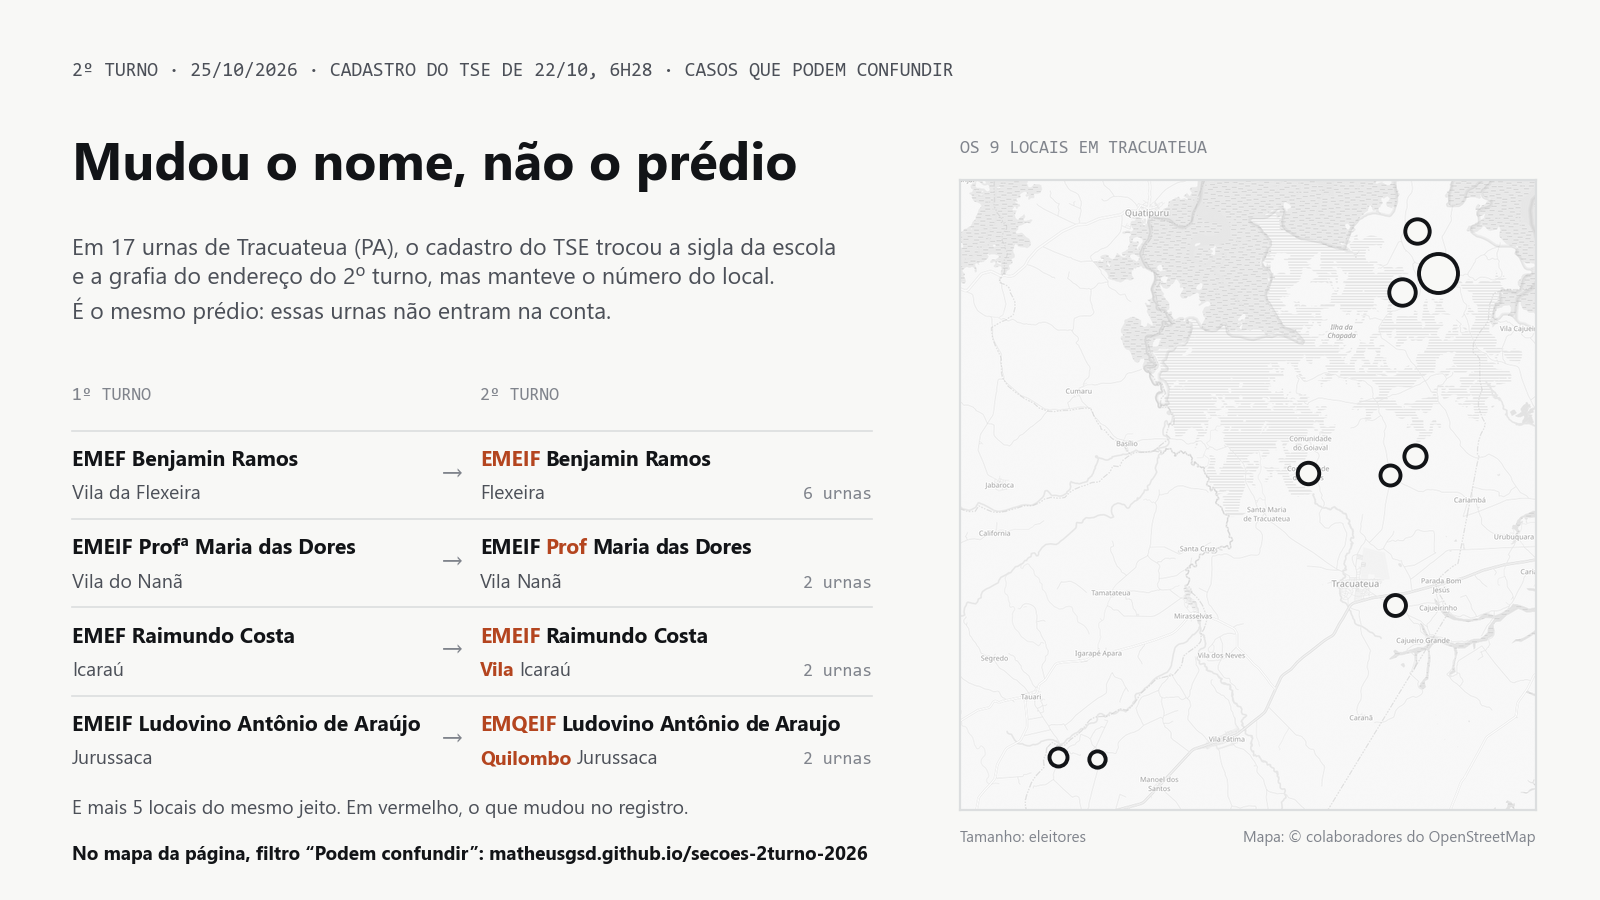
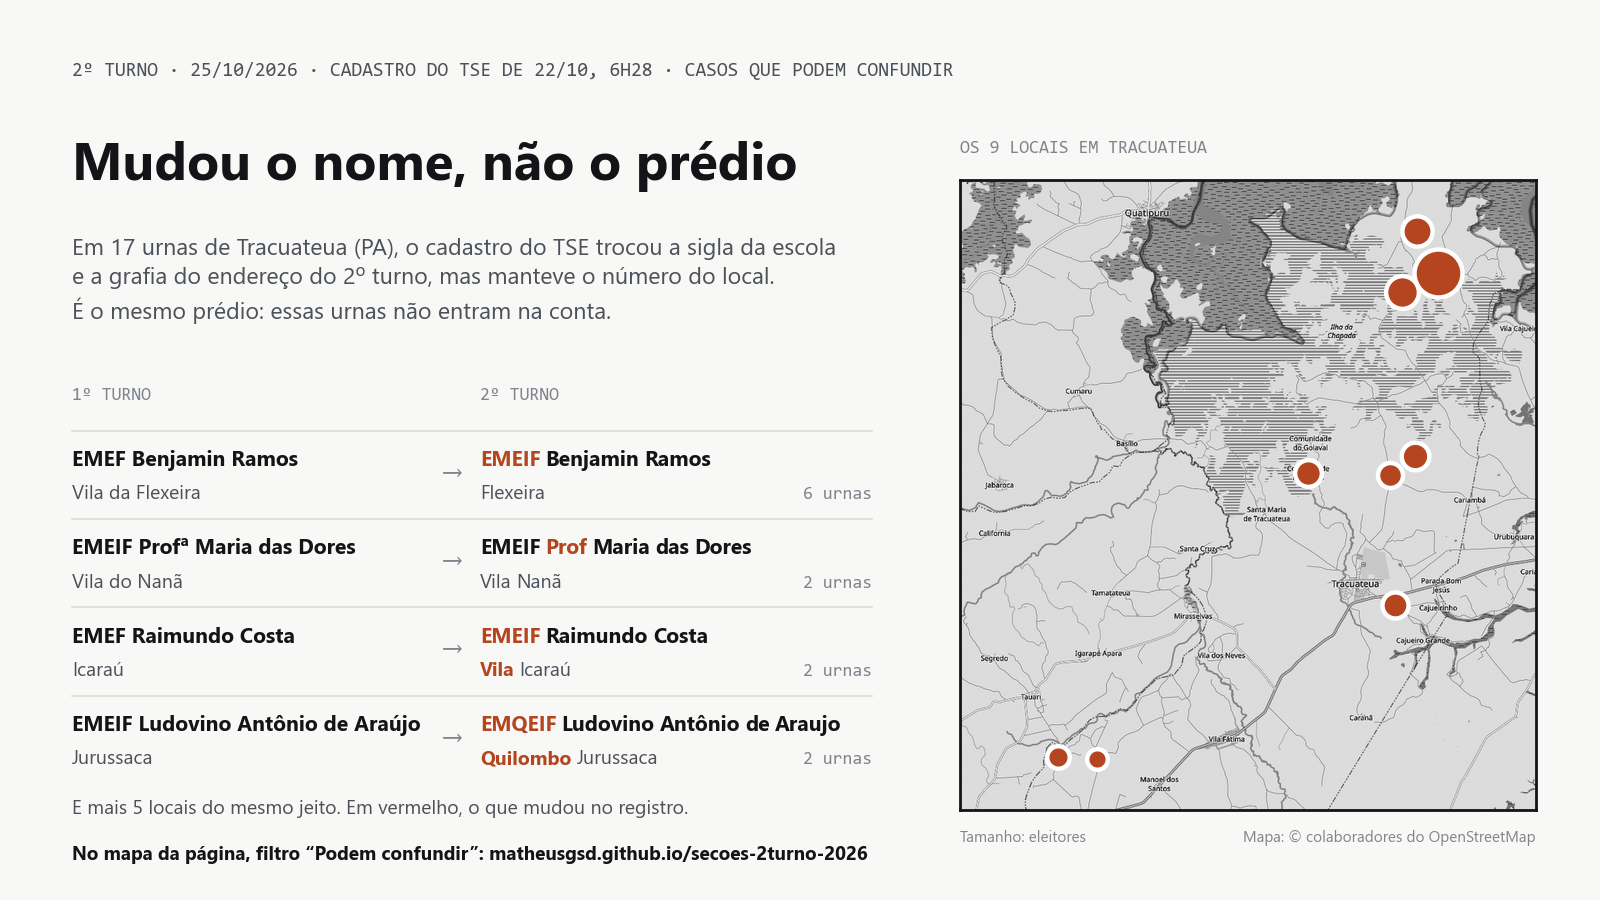
Cartão dos casos que podem confundir: mapa com mais contraste e pontos em destaque

Changed region(s): [[0.5938, 0.1867, 0.9688, 0.9022]]

diff --git a/scripts/20_imagem_reescritos.py b/scripts/20_imagem_reescritos.py
@@ -63,7 +63,8 @@ def fundo(lat0, lat1, lon0, lon1, z):
         for j, y in enumerate(ty):
             img.paste(tile(z, x, y), (256 * i, 256 * j))
     cinza = ImageOps.grayscale(img)
-    cinza = ImageOps.autocontrast(cinza).point(lambda v: 150 + v * 105 // 255)  # claro, com pouco contraste
+    # contraste forte (água e mata escuras, estradas e povoados claros), sem ficar preto
+    cinza = ImageOps.autocontrast(cinza, cutoff=2).point(lambda v: 55 + v * 170 // 255)
     caixa = ((x0 - tx[0]) * 256, (y0 - ty[0]) * 256, (x1 - tx[0]) * 256, (y1 - ty[0]) * 256)
     return cinza.crop(tuple(round(c) for c in caixa)), tx[0], ty[0], caixa
 
@@ -144,13 +145,14 @@ def main():
     for row in locais.itertuples():
         px, py = tile_xy(row.lat, row.lon, ZOOM)
         px, py = (px - tx0) * 256 - caixa[0], (py - ty0) * 256 - caixa[1]
-        ax.scatter(px, py, s=18 + row.aptos / 9, facecolor=PAPEL, edgecolor=TINTA, linewidth=1.4, zorder=3)
+        ax.scatter(px, py, s=30 + row.aptos / 6, facecolor=DESTAQUE, edgecolor="white", linewidth=1.6, zorder=3)
     ax.set_xlim(0, img.width)
     ax.set_ylim(img.height, 0)
     ax.set_xticks([])
     ax.set_yticks([])
     for s in ax.spines.values():
-        s.set_color(LINHA)
+        s.set_color(TINTA)
+        s.set_linewidth(1)
     t(0.6, 0.83, f"OS {len(locais)} LOCAIS EM {locais.mun.iloc[0].upper()}", size=6.5, color=TINTA3, family=DADOS)
     t(0.96, 0.065, "Mapa: © colaboradores do OpenStreetMap", size=5.5, color=TINTA3, ha="right")
     t(0.6, 0.065, "Tamanho: eleitores", size=5.5, color=TINTA3)
